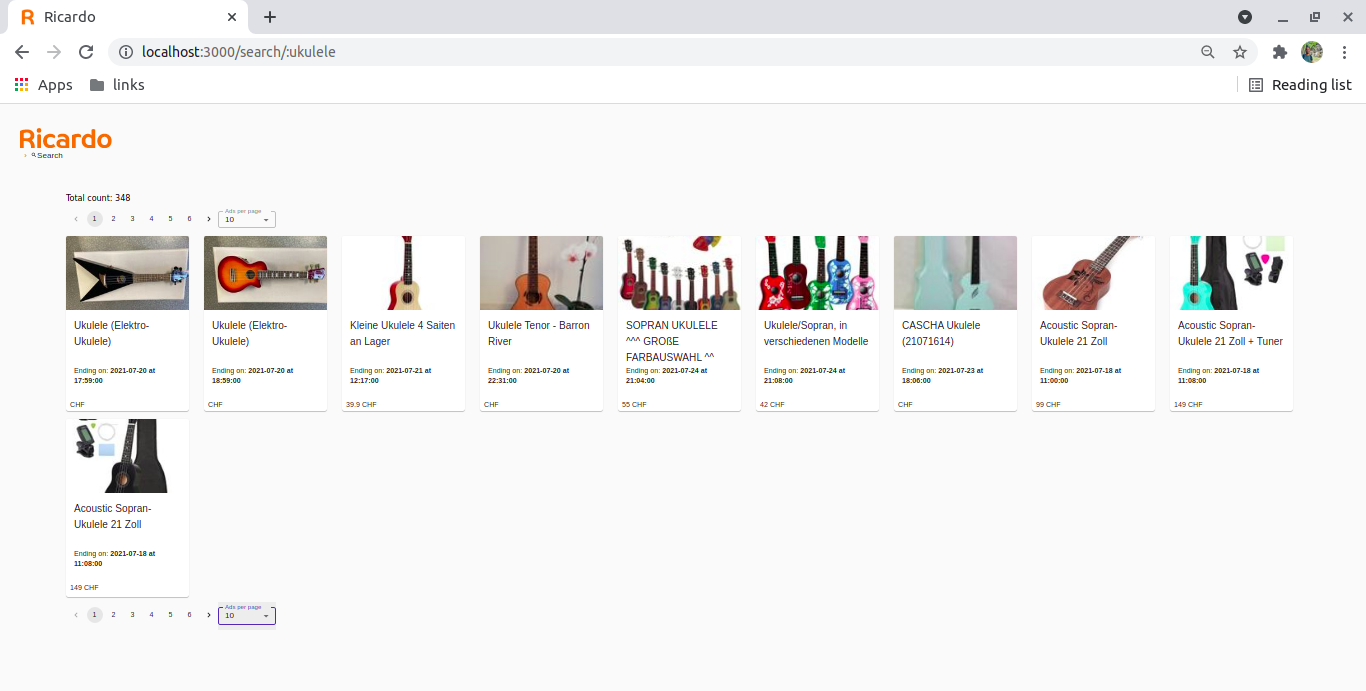
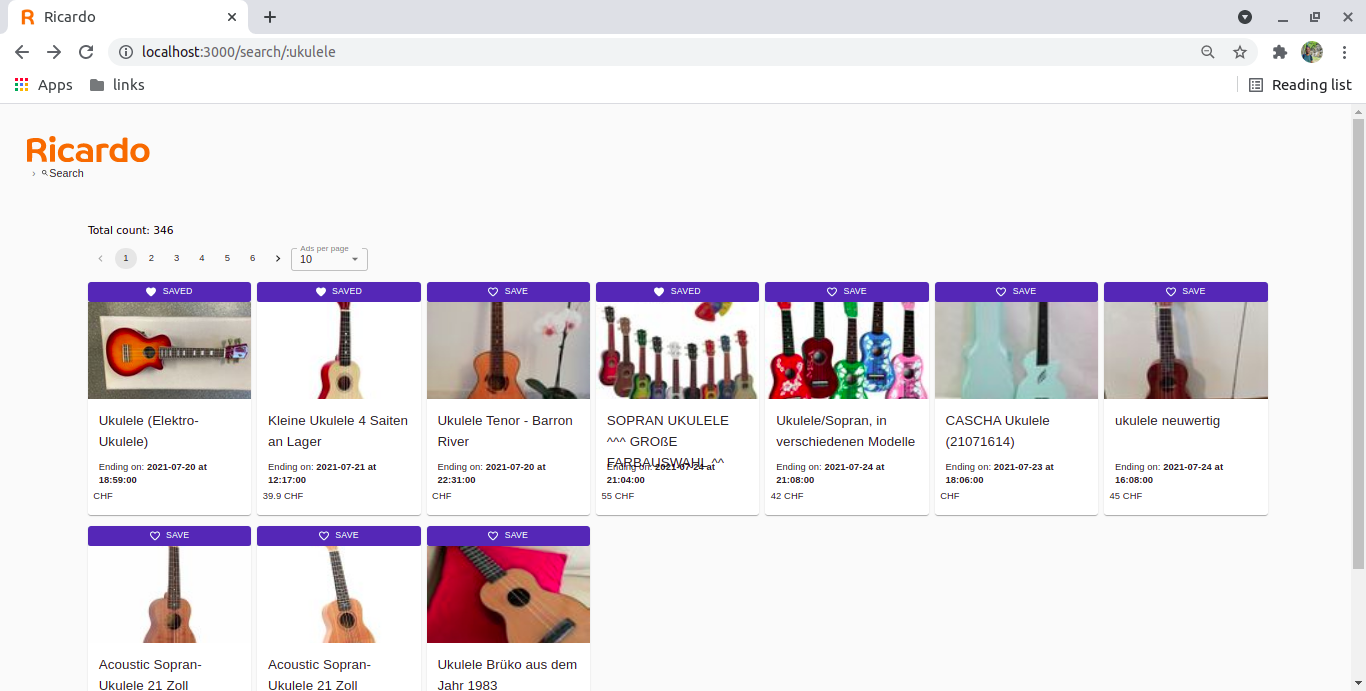
add to favorite feature plus branch readme

diff --git a/src/components/Button/AddToFavButton/index.tsx b/src/components/Button/AddToFavButton/index.tsx
@@ -5,64 +5,70 @@ import Button from '@material-ui/core/Button';
 import FavoriteBorderRoundedIcon from '@material-ui/icons/FavoriteBorderRounded';
 import FavoriteRoundedIcon from '@material-ui/icons/FavoriteRounded';
 
-const AddToFavButton: React.FC<AddToFavButtonProps> = (
-{ id }) => {
+const AddToFavButton: React.FC<AddToFavButtonProps> = ({ id }) => {
+	const [isFavorite, setIsFavorite] = React.useState<boolean>(false);
 
-    const [ isFavorite, setIsFavorite ] = React.useState<boolean>(false);
-    
-    React.useEffect(() => {
-        let favoriteArticles = localStorage.getItem('favoriteArticles');
-        const newFavrotiveArticles = new Set(JSON.parse(favoriteArticles!));
-        if (newFavrotiveArticles.has(id)) {
-            setIsFavorite(true);
-        } 
-    // eslint-disable-next-line react-hooks/exhaustive-deps
-    }, [])
+	React.useEffect(() => {
+		let favoriteArticles = localStorage.getItem('favoriteArticles');
+		const newFavrotiveArticles = new Set(
+			JSON.parse(favoriteArticles!),
+		);
+		if (newFavrotiveArticles.has(id)) {
+			setIsFavorite(true);
+		}
+		// eslint-disable-next-line react-hooks/exhaustive-deps
+	}, []);
 
-    const onClickHandler = () => {
-        let favoriteArticles = localStorage.getItem('favoriteArticles');    
-        const newFavrotiveArticles = JSON.parse(favoriteArticles!) || [];
+	const onClickHandler = () => {
+		let favoriteArticles = localStorage.getItem('favoriteArticles');
+		const newFavrotiveArticles = JSON.parse(favoriteArticles!) || [];
 
-        const setInFavStorage = (array: string[] | number[]) => {
-            localStorage.setItem('favoriteArticles', JSON.stringify(array))
-        };
+		const setInFavStorage = (array: string[] | number[]) => {
+			localStorage.setItem('favoriteArticles', JSON.stringify(array));
+		};
 
-        const addToFavoritesHandler = (): void => {
-            newFavrotiveArticles.push(id);
-            setInFavStorage(newFavrotiveArticles);
-            setIsFavorite(!isFavorite);
-        };
+		const addToFavoritesHandler = (): void => {
+			newFavrotiveArticles.push(id);
+			setInFavStorage(newFavrotiveArticles);
+			setIsFavorite(!isFavorite);
+		};
 
-        const removeFromFavoritesHandler = () => {
-            let filteredFavArticles = newFavrotiveArticles.filter((favId: Id) => favId !== id)
-            setInFavStorage(filteredFavArticles)
-            setIsFavorite(!isFavorite);
-        };
+		const removeFromFavoritesHandler = () => {
+			let filteredFavArticles = newFavrotiveArticles.filter(
+				(favId: Id) => favId !== id,
+			);
+			setInFavStorage(filteredFavArticles);
+			setIsFavorite(!isFavorite);
+		};
 
-        if (!newFavrotiveArticles.length) {
-            return addToFavoritesHandler();
-        };
-        if (newFavrotiveArticles.length) {
-            if (isFavorite) {
-                return removeFromFavoritesHandler();
-            };
-        };
-        return addToFavoritesHandler();
-    };
+		if (!newFavrotiveArticles.length) {
+			return addToFavoritesHandler();
+		}
+		if (newFavrotiveArticles.length) {
+			if (isFavorite) {
+				return removeFromFavoritesHandler();
+			}
+		}
+		return addToFavoritesHandler();
+	};
 
-
-
-    return (
-        <Button
-            variant="contained"
-            color="primary"
-            size="small"
-            onClick={ onClickHandler }
-            startIcon={ isFavorite ? <FavoriteRoundedIcon/> : <FavoriteBorderRoundedIcon/> }
-        >
-            { isFavorite ? 'Saved' : 'Save' }
-        </Button>
-    );
+	return (
+		<Button
+			variant="contained"
+			color="primary"
+			size="small"
+			fullWidth
+			onClick={onClickHandler}
+			startIcon={
+				isFavorite ? (
+					<FavoriteRoundedIcon />
+				) : (
+					<FavoriteBorderRoundedIcon />
+				)
+			}>
+			{isFavorite ? 'Saved' : 'Save'}
+		</Button>
+	);
 };
 
 export default AddToFavButton;

diff --git a/src/components/ArticleCard/SearchResultsCard/index.tsx b/src/components/ArticleCard/SearchResultsCard/index.tsx
@@ -24,9 +24,9 @@ const SearchResultsCard: React.FC<SearchResultsCardProps> = ({
 		return `${splitedString[0]} at ${splitedString[1].slice(0, -1)}`;
 	};
 
-
 	return (
-		<S.Card>		
+		<S.Card>
+			<Button type="addToFavButton" id={id} />
 			<CardActionArea onClick={onClick}>
 				<S.Image image={imageUrl} title={title} />
 				<S.Content>
@@ -45,10 +45,6 @@ const SearchResultsCard: React.FC<SearchResultsCardProps> = ({
 					<S.Price variant="body2" component="p">
 						{buyNowPrice} CHF
 					</S.Price>
-					<Button 
-						type='addToFavButton'
-						id={ id }
-					/>
 				</CardActions>
 			</CardActionArea>
 		</S.Card>

diff --git a/src/components/ArticleCard/ProductDetailsCard/index.tsx b/src/components/ArticleCard/ProductDetailsCard/index.tsx
@@ -3,6 +3,7 @@ import * as React from 'react';
 // ====================== components =====================
 import * as S from './style';
 import { Divider, Typography } from '@material-ui/core';
+import Button from '../../Button';
 // ======================= DOMPurify =====================
 import DOMPurify from 'dompurify';
 // =======================================================
@@ -13,6 +14,7 @@ const ProductDetailsCard: React.FC<ProductDetailsCardProps> = ({
 }) => (
 	<>
 		<S.Card>
+			<Button type="addToFavButton" id={article.id} />
 			<S.Content>
 				<S.Title
 					variant="h4"

diff --git a/src/components/Button/index.tsx b/src/components/Button/index.tsx
@@ -2,13 +2,14 @@
 import * as React from 'react';
 // ==================== components ========================
 import SearchButton from './SearchButton';
-import AddToFavButton from './AddToFavButton'
+import AddToFavButton from './AddToFavButton';
 
 const Button: React.FC<ButtonProps> = (props) => {
 	if (props.type === 'searchButton')
 		return <SearchButton {...props} />;
-	if (props.type === 'addToFavButton') return <AddToFavButton {...props} />;
-	
+	if (props.type === 'addToFavButton')
+		return <AddToFavButton {...props} />;
+
 	return null;
 };
 

diff --git a/src/components/ArticleCard/SearchResultsCard/style.ts b/src/components/ArticleCard/SearchResultsCard/style.ts
@@ -13,21 +13,21 @@ export const Card = styled(MCard)`
 `;
 
 export const Image = styled(CardMedia)`
-	height: 10px;
+	height: 8px;
 	padding-top: 56.25%;
 `;
 
 export const Content = styled(CardContent)`
-	height: 125px;
+	height: 96px;
 	padding: 0 1.65rem;
 `;
 
 export const TitleWrapper = styled.div`
-	height: 90px;
+	height: 77.5px;
 `;
 
 export const Title = styled(Typography)<DefaultTypographyProps>`
-	font-size: 19px;
+	font-size: 17px;
 `;
 
 export const EndingWrapper = styled.div`

diff --git a/src/components/Button/SearchButton/index.tsx b/src/components/Button/SearchButton/index.tsx
@@ -5,9 +5,13 @@ import * as S from './style';
 
 const SearchButton: React.FC<SearchButtonProps> = ({
 	children,
+	isButtonDisabled,
 	onClickHandler,
 }) => (
-	<S.Button data-testid="searchButton" onClick={onClickHandler}>
+	<S.Button data-testid="searchButton" onClick={onClickHandler}
+	disabled={isButtonDisabled}
+
+	>
 		{children}
 	</S.Button>
 );

diff --git a/src/pages/home.tsx b/src/pages/home.tsx
@@ -47,7 +47,7 @@ const HomePage: React.FC = () => {
 				onClickHandler={onClickHandler}
 			/>
 			<Button
-				type='searchButton'
+				type="searchButton"
 				isButtonDisabled={isButtonDisabled}
 				onClickHandler={onClickHandler}>
 				<SearchSharpIcon fontSize="small" />

diff --git a/src/types.d.ts b/src/types.d.ts
@@ -80,10 +80,9 @@ type SearchButtonProps =
 	| any;
 
 type AddToFavButtonProps = {
-			type: string;
-			id: Id;
-	  }
-
+	type: string;
+	id: Id;
+};
 
 type ButtonProps = SearchButtonProps | AddToFavButtonProps;
 

diff --git a/README.md b/README.md
@@ -6,7 +6,7 @@ The goal of this exercise is to build a (very) **small version of Ricardo** usin
 The application is described below
 
 \*\* The typescript branch is experimental, and includes additional features such as pagination and breadcrumbs but types logic is not perfect.
-
+\*\* The withFavorite branch is an extentio of typescript branch, and on top of it, it includes a small addition, a favorite posibility that is stored in the local storage of the user's broweser.
 ### Home Page
 
 - Users first land on the **Home Page** where they would see a search bar and a (initially disabled) `SEARCH` button
@@ -66,7 +66,7 @@ Open [http://localhost:3000](http://localhost:3000) to view it in the browser.
 Project structure and brief explanation:
 
 - by principle, only a component folder name start with a capital letter.
-- global styles can be found in the **src/styles** otherwise each component style file is located in the same folder as the component itself at the same level as its index.jsx file
+- global styles can be found in the **src/styles** otherwise each component style file is located in the same folder as the component itself at the same level as its index.tsx file
 
 ```bash
 "
@@ -79,54 +79,78 @@ Ricardo
 │   ├── logo512.png
 │   ├── manifest.json
 │   └── robots.txt
+│
 ├── src
 │   ├── __tests__                   --> tests folder
 │   │   └── home.test.tsx           --> contains 2 tests for the home page requiremets
+│   │
 │   ├── asstes
 │   │   └── logo.svg
+│   │
 │   ├── components
 │   │   ├── ArticleCard
 │   │   │   ├── ProductDetailsCard  --> card for the product details page
-│   │   │   │   ├── index.jsx
-│   │   │   │   └── style.js
+│   │   │   │   ├── index.tsx
+│   │   │   │   └── style.ts
+│   │   │   │
 │   │   │   ├── SearchResultsCard   --> card for the search results page
-│   │   │   │   ├── index.jsx
-│   │   │   │   └── style.js
-│   │   │   └── index.jsx           --> import ArticleCard with an attribute type='small' / type='large'
-│   │   ├── Button                  --> button for startpage add attribute active='false' to have it unactivated
-│   │   │   ├── index.jsx
-│   │   │   └── style.js
+│   │   │   │   ├── index.tsx
+│   │   │   │   └── style.ts
+│   │   │   │
+│   │   │   └── index.tsx           --> import ArticleCard with an attribute type='productDetailsCard' / type='searchResultsCard'
+│   │   │
+│   │   ├── Button
+│   │   │   ├── AddToFavButton      --> button for both types of articleCard
+│   │   │   │   └── index.tsx
+│   │   │   │
+│   │   │   ├── SearchButton        --> button for startpage
+│   │   │   │   ├── index.tsx
+│   │   │   │   └── style.ts
+│   │   │   │
+│   │   │   └── index.tsx           --> import Button with an attribute type='searchButton' / type='addToFavButton'
+│   │   │
 │   │   ├── Input                   --> search input field
-│   │   │   ├── index.jsx
-│   │   │   └── style.js
+│   │   │   ├── index.tsx
+│   │   │   └── style.ts
+│   │   │
 │   │   ├── Layout                  --> for all layouts, currently only has one file
-│   │   │   └── container.jsx       --> basic responsiveness, add attribute padding='true' for extra padding
+│   │   │   └── container.tsx       --> basic responsiveness, add attribute padding='true' for extra padding
+│   │   │
 │   │   ├── Logo                    --> the logo wrapped with Link to home page
-│   │   │   └── index.jsx
+│   │   │   └── index.tsx
+│   │   │
 │   │   ├── SearchResultsPagination --> search page pagination component
-│   │   │   ├── index.jsx
-│   │   │   └── style.js
+│   │   │   ├── index.tsx
+│   │   │   └── style.ts
+│   │   │
 │   │   └── Spinner                 --> spinner to show until data is loaded
-│   │       ├── index.jsx
-│   │       └── style.js
+│   │       ├── index.tsx
+│   │       └── style.ts
+│   │
 │   ├── helpers                     --> folder for global functions
 │   │   ├── constants.js            --> contains action types for the store's reducer, the base url and the apiToken variable
 │   │   └── fetches.js              --> the different needed fetch functions for the app
+│   │
 │   ├── pages                       --> the project pages, currently only 3
-│   │   ├── home.jsx
-│   │   ├── productDetails.jsx
-│   │   └── searchPage.jsx
+│   │   ├── home.tsx
+│   │   ├── productDetails.tsx
+│   │   └── searchPage.tsx
+│   │
 │   ├── routes                      --> the basic structure and all routes
-│   │   └── index.jsx
+│   │   └── index.tsx
+│   │
 │   ├── store                       --> project's store, actions and reducer, currently based on the context API
 │   │   ├── actions.js
-│   │   ├── index.jsx
+│   │   ├── index.tsx
 │   │   └── reducer.js
+│   │
 │   ├── styles                      --> golbal styles and theme
 │   │   ├── index.js
 │   │   └── wrappers.js
-│   ├── index.js                    --> main index.js file
+│   │
+│   ├── index.js                    --> main index.tsx file
 │   └── setupTests.js
+│
 ├── .gitignore
 ├── .env                            --> **add your personal apiToken here**
 ├── README.md
